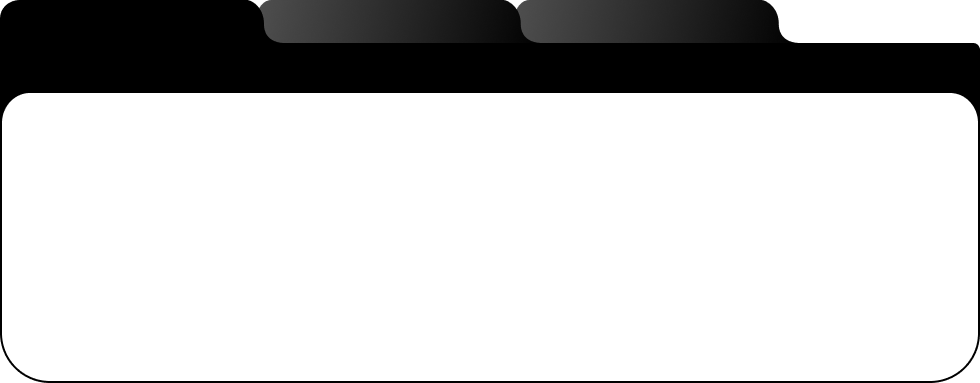
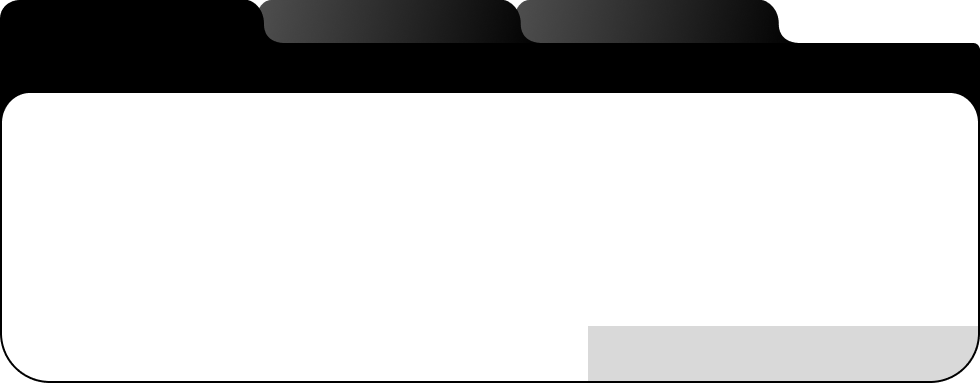
end 13.05

Changed region(s): [[0.5816, 0.8329, 1.0, 1.0]]

diff --git a/static/css/lc_main.css b/static/css/lc_main.css
@@ -51,7 +51,7 @@
     --left_projects_text: 18px;
 
     --msg_friends_list_width: 60%;
-    --chat_height: 85%;
+    --chat_height: 80%;
 }
 
 /*------------------Стили для текста на странице-----------------------------*/
@@ -523,21 +523,21 @@
 #friends_block_title {
     box-sizing: border-box;
     width: var(--msg_friends_list_width);
-    height: 8%;
     display: flex;
+    padding-left: 1.4em;
     justify-content: space-between;
     align-items: center;
-    padding: 0.5em 3% 0 3%;
     font-family: 'Comfortaa';
     font-style: normal;
-    font-weight: 700;
-    font-size: 20px;
-    line-height: 22px;
+    font-weight: 500;
+    font-size: min(2.2vh, 1.2vw);
+    line-height: min(2.2vh, 1.2vw);
     color: var(--header_color);
 }
 
 #msg_title {
     width: 100%;
+    height: 15%;
     display: flex;
 }
 
@@ -547,71 +547,61 @@
     justify-content: space-between;
     align-items: center;
     width: calc(100% - var(--msg_friends_list_width));
-    height: 8%;
-    padding: 0.7em 3% 0 calc(2.5em + 3%);
     position: relative;
 }
 
 #interlocutor_avatar {
     position: absolute;
-    top: 0.5em;
+    top: 0.7em;
     left: 0.5em;
-    width: 2.5em;
-    height: 2.5em;
+    width: min(5vh, 3vw);
+    height: min(5vh, 3vw);
     border-radius: 50%;
     border: 3px solid white;
 }
 
-.friend_avatar {
-    width: 5vh;
-    height: 5vh;
-    border-radius: 50%;
-}
-
-
 #interlocutor {
     font-family: 'Comfortaa';
     font-style: normal;
-    font-weight: 700;
-    font-size: 20px;
-    line-height: 22px;
+    font-weight: 500;
+    font-size: min(2.2vh, 1.2vw);
+    line-height: min(2.2vh, 1.2vw);
     color: var(--header_color);
     width: 50%;
+    padding-left: 2.5em;
     text-align: center;
 }
 
 #interlocutor_lso {
     font-family: 'Comfortaa';
     font-style: normal;
-    font-weight: 600;
-    font-size: 16px;
-    line-height: 22px;
+    font-weight: 500;
+    font-size: min(1.6vh, 1vw);
+    line-height: min(2vh, 1vw);
     color: #5E5E5E;
-    width: 50%;
     text-align: center;
 }
 
 
 #friends_logo {
-    width: 2.5vh;
+    width: 3vh;
     height: 2.5vh;
     padding-left: 2%;
 }
 
 #friend_fullname_title {
-    width: 50%;
+    width: 0%;
     text-align: center;
 }
 
 #friend_course_title {
-    width: 30%;
+    width: 38%;
     text-align: center;
 }
 
 #msg_content_block {
-    margin-top: 1%;
     box-sizing: border-box;
-    height: 89%;
+    height: 88%;
     width: 100%;
     display: flex;
 }
@@ -637,7 +627,7 @@
     font-family: 'Comfortaa';
     font-style: normal;
     font-weight: 400;
-    font-size: 20px;
+    font-size: min(1vw, 1.6vh);
     line-height: 22px;
     text-align: center;
     color: #000000;
@@ -649,16 +639,12 @@
 }
 
 #msg_box>form {
-    width: calc(100% - 1px);
-    height: calc(100% - var(--chat_height) - 1px);
-    border-radius: 0 0 45px 0;
-    background-color: #D9D9D9;
-    border: 1px black solid;
-    border-left: 0px;
+    width: 99%;
+    height: calc(100% - var(--chat_height) - 1%);
     display: flex;
     justify-content: space-around;
     position: relative;
-    padding: 1.5% 4% 0 3%;
+    padding: 4% 4% 1% 1%;
 }
 
 #chat_smile_logo,
@@ -668,9 +654,8 @@
 }
 
 #chat_paperclip_logo {
-    width: 1.3em;
-    height: 1.3em;
-    background-color: #009aad;
+    width: min(2.5vh, 1.5vw);
+    height: min(2.5vh, 1.5vw);
 }
 
 #chat_input_form {
@@ -691,10 +676,8 @@
 }
 
 #chat_send_button {
-    width: 1.3em;
-    height: 1.3em;
-    background-color: #009aad;
-
+    width: min(2.5vh, 1.5vw);
+    height: min(2.5vh, 1.5vw);
 }
 
 #friends_block_content {
@@ -717,8 +700,8 @@
 }
 
 .friend_avatar {
-    width: 5vh;
-    height: 5vh;
+    width: min(5vh, 3vw);
+    height: min(5vh, 3vw);
     background-color: #009aad;
     border-radius: 50%;
 }
@@ -729,8 +712,8 @@
     font-family: 'Comfortaa';
     font-style: normal;
     font-weight: 600;
-    font-size: 16px;
-    line-height: 22px;
+    font-size: min(2vh, 1vw);
+    line-height: min(2vh, 1vw);
     color: #000;
 }
 
@@ -740,8 +723,8 @@
     font-family: 'Comfortaa';
     font-style: normal;
     font-weight: 600;
-    font-size: 16px;
-    line-height: 22px;
+    font-size: min(2vh, 1vw);
+    line-height: min(2vh, 1vw);
     color: #5E5E5E;
 }
 

diff --git a/templates/LC.html b/templates/LC.html
@@ -119,7 +119,9 @@
                             <div id="chat_block_title">
                                 <img id="interlocutor_avatar" src="/static/img/msg/kate zamotina.png" alt="">
                                 <span id="interlocutor">Екатерина</span>
-                                <span id="interlocutor_lso">5 минут назад</span>
+                                <div style="align-items: end; height: 100%; display: flex; justify-content: end; padding-right: 2%;">
+                                    <span id="interlocutor_lso">5 минут назад</span>
+                                </div>
                             </div>
                         </div>
                         <div id="msg_content_block">
@@ -152,9 +154,9 @@
                                     </span>
                                 </div>
                                 <form action="">
-                                    <span id="chat_paperclip_logo"></span>
+                                    <img src="/static/img/msg/paperclip.png" alt="" id="chat_paperclip_logo">
                                     <input id="chat_input_form" type="text">
-                                    <span id="chat_send_button"></span>
+                                    <img src="/static/img/msg/send.png" alt="" id="chat_send_button">
                                 </form>
                             </div>
                         </div>
